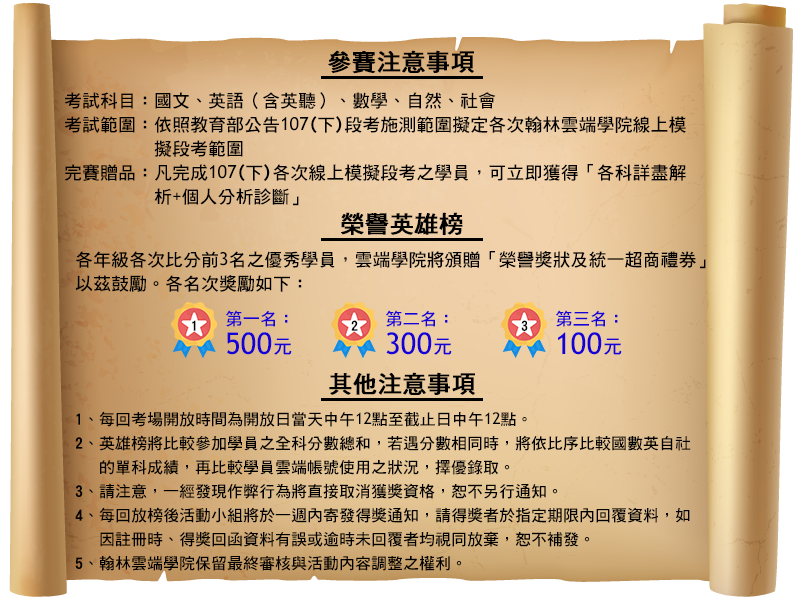
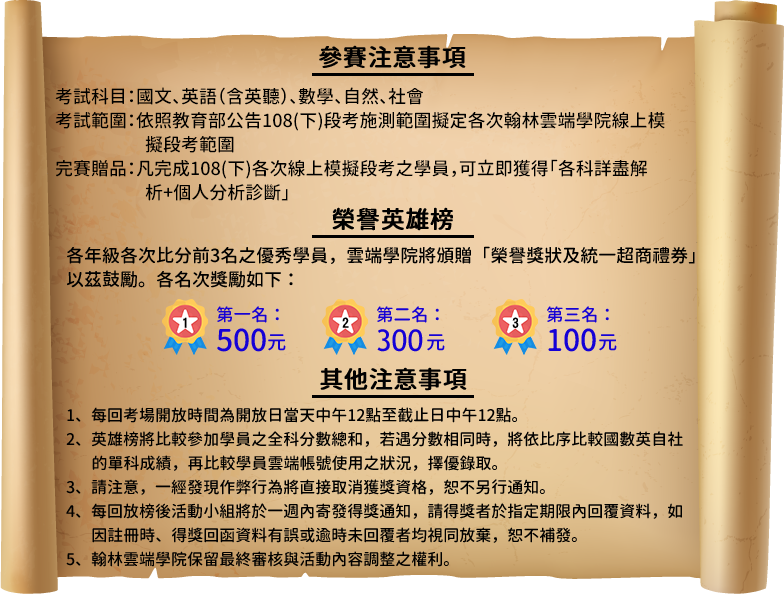
調整功能：更新 活動頁面模擬段考title及圖片 trello#zzvpdDO7

Changed region(s): [[0.0, 0.0, 1.0, 1.0], [0.6122, 0.5152, 0.7959, 0.6061]]

diff --git a/dist/s2.html b/dist/s2.html
@@ -28,7 +28,7 @@
                         <p>Term Test</p>
                     </div>
 
-                    <div class="content">107(下) 線上模擬段考</div>
+                    <div class="content">108(下) 線上模擬段考</div>
                 </div>
 
                 <div class="schedule"></div>

diff --git a/src/s2.html b/src/s2.html
@@ -28,7 +28,7 @@
                         <p>Term Test</p>
                     </div>
 
-                    <div class="content">107(下) 線上模擬段考</div>
+                    <div class="content">108(下) 線上模擬段考</div>
                 </div>
 
                 <div class="schedule"></div>
